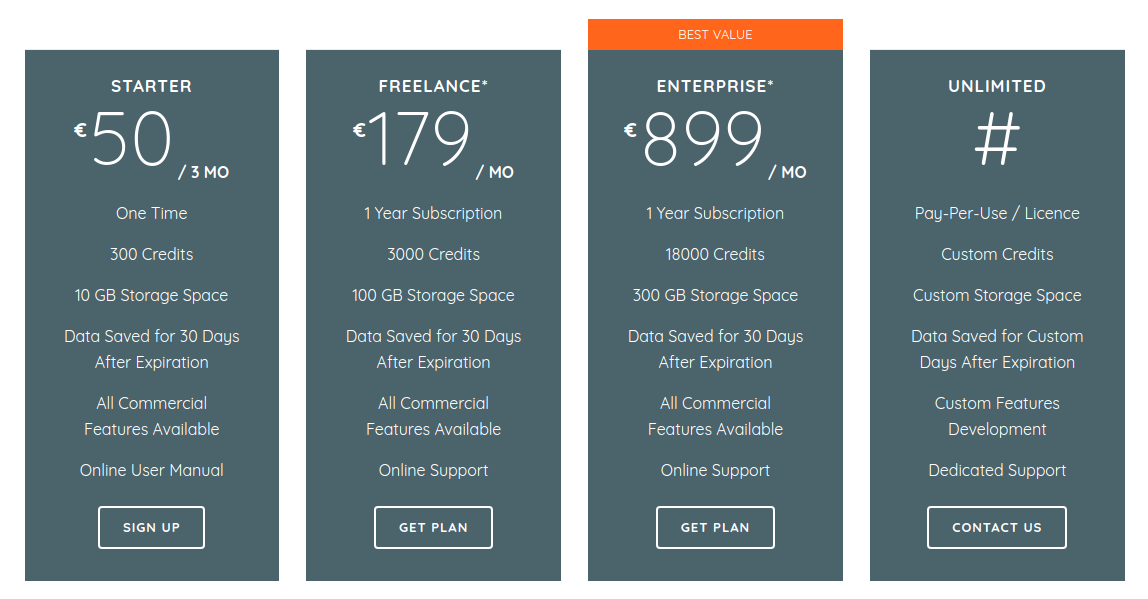
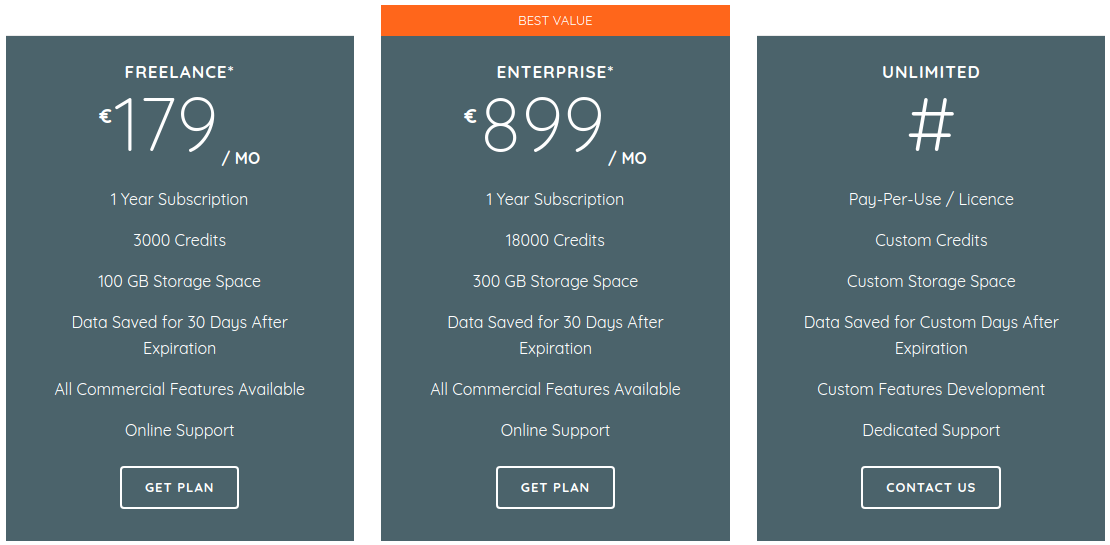
Updated new pricing

diff --git a/docs/manual/account/index.html b/docs/manual/account/index.html
@@ -389,11 +389,9 @@
 </figure>
 
 
-<p>The plans currently available are mainly three:</p>
+<p>The plans currently available are mainly two:</p>
 
 <ul>
-<li><p><strong>STARTER</strong>: one-time plan to try the platform at a low fee. With this plan, you can access up to 300 credits for 3 months, 10GB of cloud storage and all commercial features available.</p></li>
-
 <li><p><strong>FREELANCE</strong> and <strong>ENTERPRISE</strong>: these two plans can be activated automatically. They both give access to the complete set of commercial features present in the application and their difference regards the number of credits given every month to the user: 250 for the FREELANCE and 1500 for the ENTERPRISE.</p></li>
 </ul>
 
@@ -407,7 +405,7 @@
 
 <h4 id="subscription-activation">SUBSCRIPTION ACTIVATION</h4>
 
-<p>Before start using the web application for your FEM/CFD simulations, make sure you activated at least the STARTER plan. The following tutorial guides you through the activation process.</p>
+<p>Before start using the web application for your FEM/CFD simulations, make sure you activated at least one available plan. The following tutorial guides you through the activation process.</p>
 
 <div class="video-player">
 	<iframe class="youtube-player" type="text/html" width="640" height="360" src="http://www.youtube.com/embed/XAHheCiJDYA" allowfullscreen frameborder="0">

diff --git a/content/manual/account.md b/content/manual/account.md
@@ -10,9 +10,7 @@ CONSELF it is a **pay-per-use CFD** application available via browser. In order 
 
 {{< figure src="/images/pricing.png" alt="Subscription plans" title="Subscription plans" class="figure-50" >}}
 
-The plans currently available are mainly three:
-
-- **STARTER**: one-time plan to try the platform at a low fee. With this plan, you can access up to 300 credits for 3 months, 10GB of cloud storage and all commercial features available.
+The plans currently available are mainly two:
 
 - **FREELANCE** and **ENTERPRISE**: these two plans can be activated automatically. They both give access to the complete set of commercial features present in the application and their difference regards the number of credits given every month to the user: 250 for the FREELANCE and 1500 for the ENTERPRISE.
 
@@ -26,7 +24,7 @@ In case the process returns an ERROR message, the credits used are not charged t
 
 #### SUBSCRIPTION ACTIVATION
 
-Before start using the web application for your FEM/CFD simulations, make sure you activated at least the STARTER plan. The following tutorial guides you through the activation process.
+Before start using the web application for your FEM/CFD simulations, make sure you activated at least one available plan. The following tutorial guides you through the activation process.
 
 {{< youtube XAHheCiJDYA >}}
 
